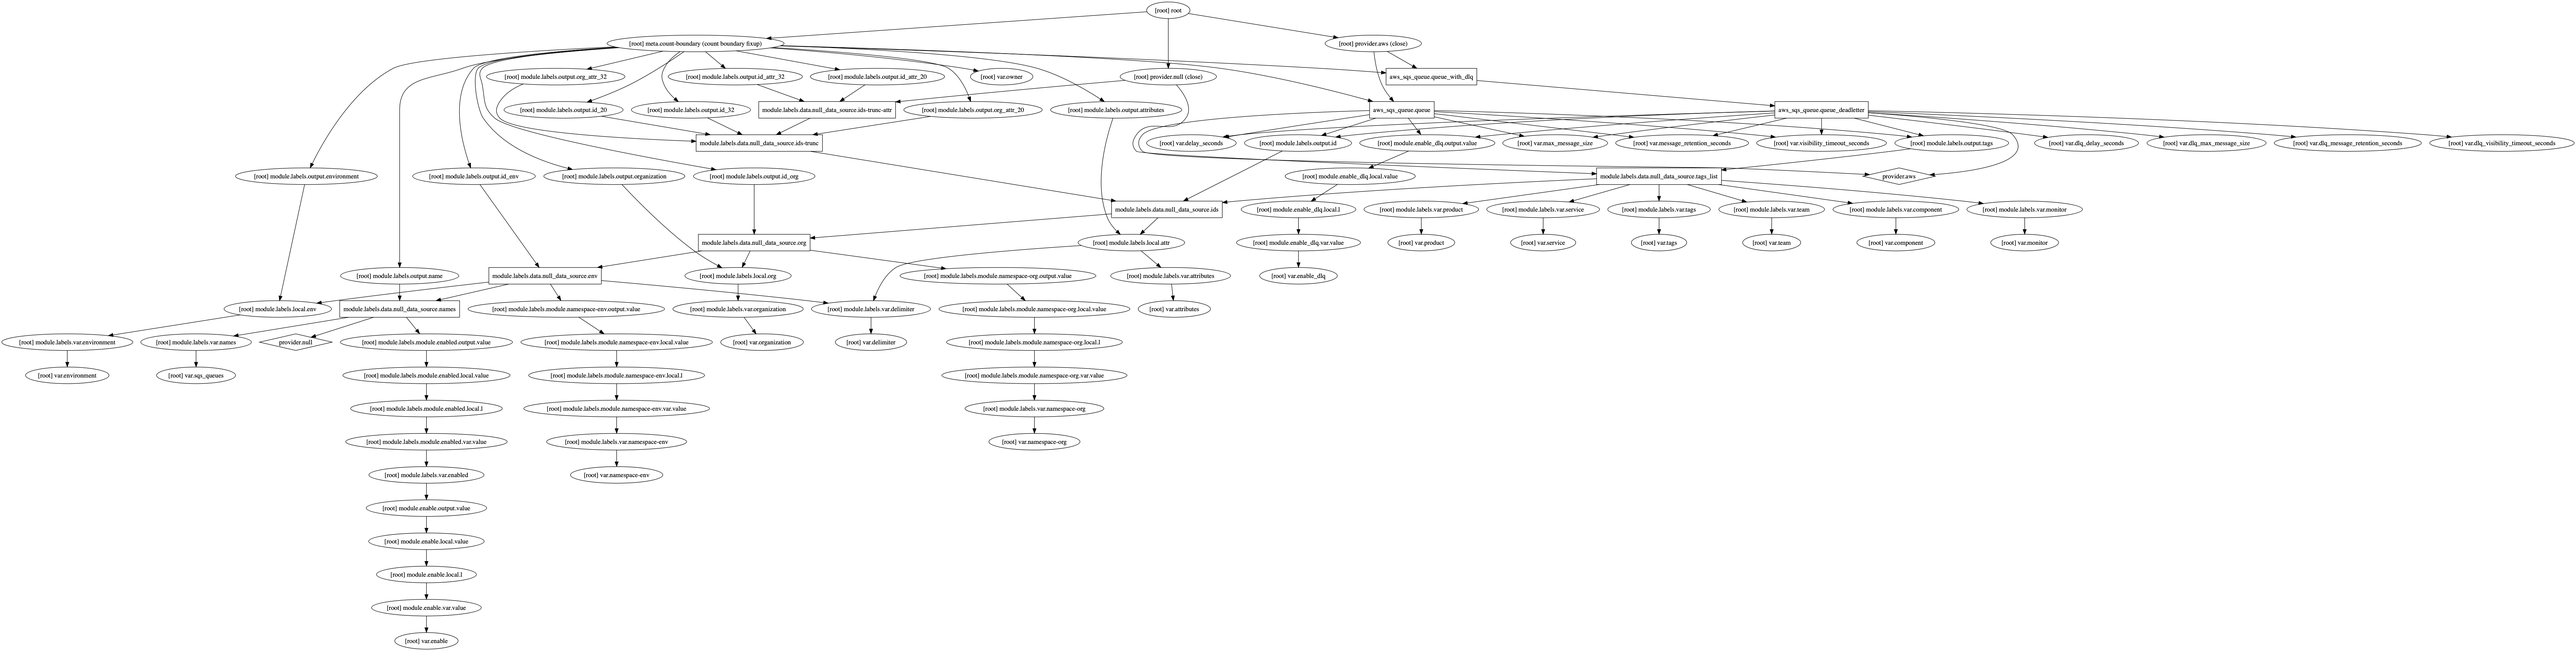
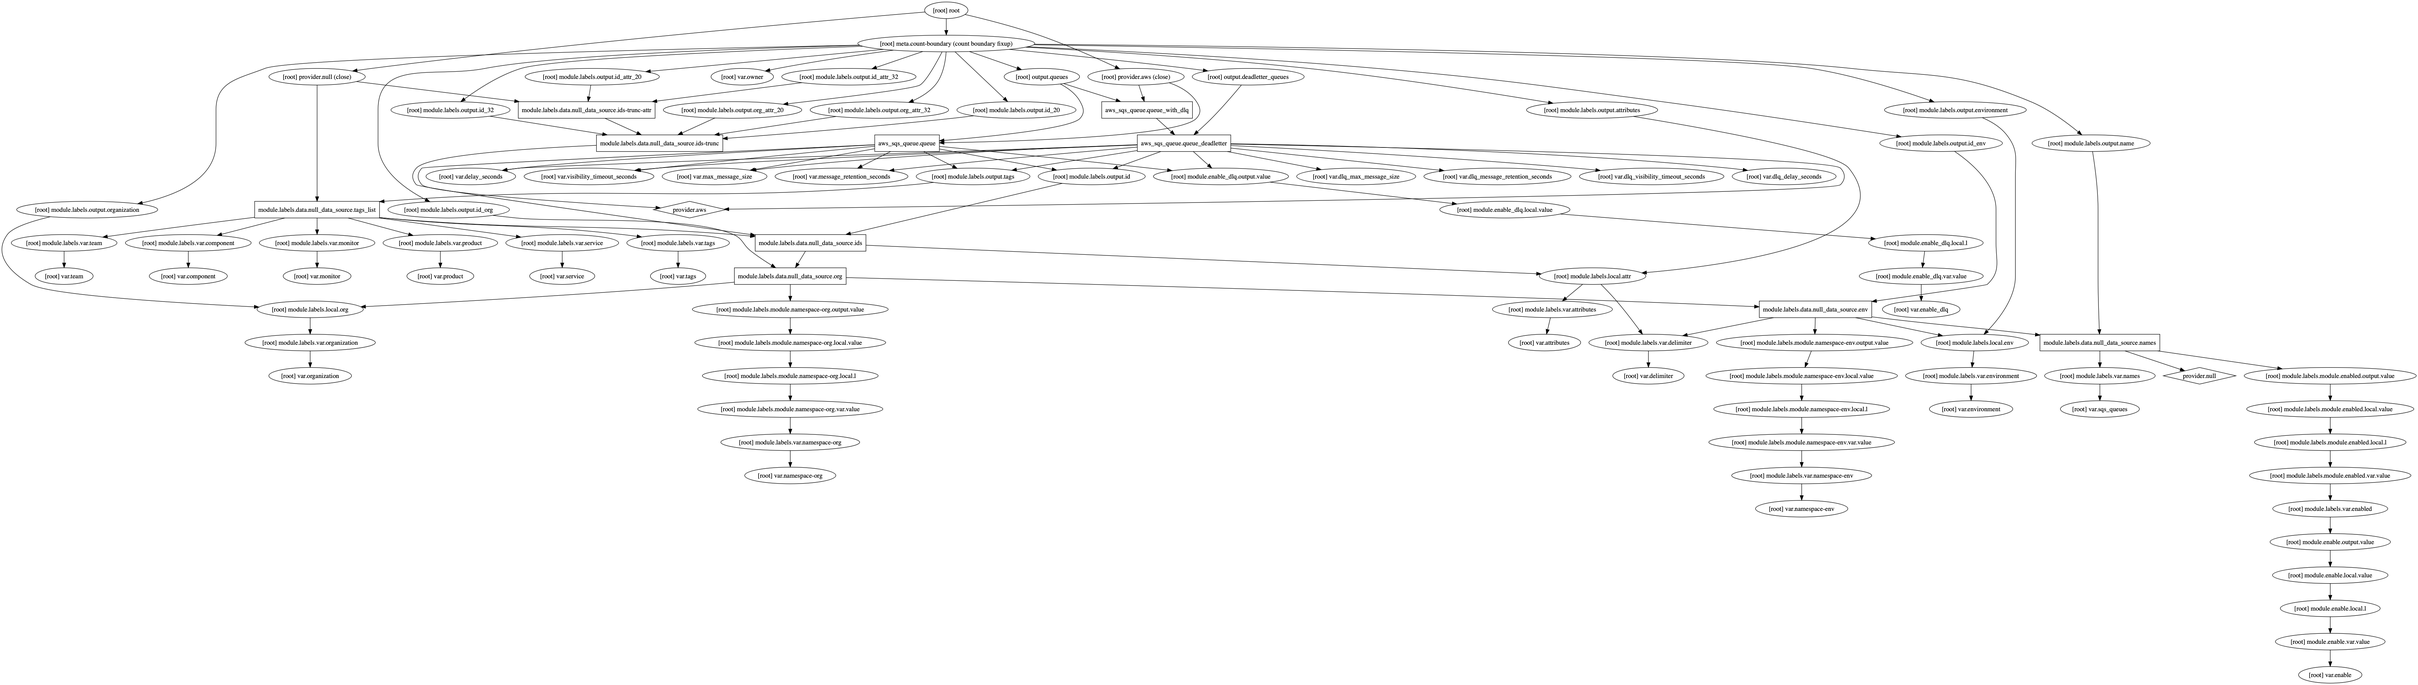
Add outputs

diff --git a/README.md b/README.md
@@ -49,6 +49,13 @@ module "" {
 | team | TAG: Department/team of people responsible for service | string | `"UNDEF-SQS"` | no |
 | visibility\_timeout\_seconds | The visibility timeout for the queue | string | `"600"` | no |
 
+## Outputs
+
+| Name | Description |
+|------|-------------|
+| deadletter\_queues |  |
+| queues |  |
+
 <!-- END OF PRE-COMMIT-TERRAFORM DOCS HOOK -->
 <!-- BEGINNING OF PRE-COMMIT-TERRAFORM GRAPH HOOK -->
 

diff --git a/examples/disabled/README.md b/examples/disabled/README.md
@@ -17,5 +17,11 @@ terraform apply
 Note that this example may create resources which cost money. Run `terraform destroy` when you don't need these resources.
 
 <!-- BEGINNING OF PRE-COMMIT-TERRAFORM DOCS HOOK -->
+## Outputs
+
+| Name | Description |
+|------|-------------|
+| deadletter\_queues |  |
+| queues |  |
 
 <!-- END OF PRE-COMMIT-TERRAFORM DOCS HOOK -->

diff --git a/examples/queues-with-dlq/README.md b/examples/queues-with-dlq/README.md
@@ -15,5 +15,11 @@ terraform apply
 Note that this example may create resources which cost money. Run `terraform destroy` when you don't need these resources.
 
 <!-- BEGINNING OF PRE-COMMIT-TERRAFORM DOCS HOOK -->
+## Outputs
+
+| Name | Description |
+|------|-------------|
+| deadletter\_queues |  |
+| queues |  |
 
 <!-- END OF PRE-COMMIT-TERRAFORM DOCS HOOK -->
